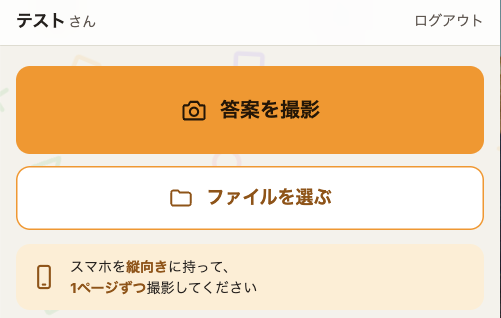
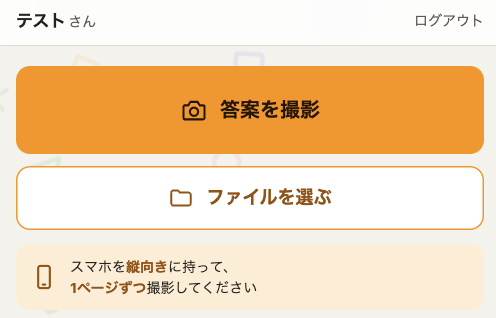
指導方針に Study Portal のお子様用の計画画面を追加
- 計画の項目に、お子様のアプリでその日のページを表示・チェックし、講師の画面に進み具合が反映される旨を追記
- お子様の画面と講師の管理画面を並べて表示（デスクトップは横並び、モバイルは縦並び）
- 写真提出画面の画像の右端に写り込んでいた背景を切り落とす
- README の構成・確定済みの値に追記

diff --git a/index.html b/index.html
@@ -25,7 +25,7 @@
 <link rel="preconnect" href="https://fonts.googleapis.com">
 <link rel="preconnect" href="https://fonts.gstatic.com" crossorigin>
 <link rel="stylesheet" href="https://fonts.googleapis.com/css2?family=Zen+Kaku+Gothic+New:wght@400;500;700&family=Zen+Old+Mincho:wght@500;600&display=swap">
-<link rel="stylesheet" href="assets/css/style.css?v=20261008-2">
+<link rel="stylesheet" href="assets/css/style.css?v=20261008-3">
 
 <script type="application/ld+json">
 {
@@ -262,11 +262,22 @@
       <p>分からない問題の解説はもちろん、次の授業までの家での過ごし方も一緒に決めます。毎週、授業の最後に次の1週間の予定を一緒に決め、次の授業でその結果を一緒に見ます。</p>
 
       <h3>毎日やるページは、アプリが自動で割り振ります</h3>
-      <p>授業で決めた目標は、講師が用意したアプリ（Study Portal）に入れます。たとえば「1週間で問題集を40ページ」と決めると、1日に何ページやればいいかを自動で計算して、毎日の予定に割り振ります。できなかった分は、次の日以降の予定に自動で組み込み直すので、遅れても予定を一から立て直す必要はありません。毎日の進み具合は講師も確認し、次の授業で一緒に見ます。</p>
-      <figure class="app-shot">
-        <img src="assets/img/study-portal-plan.png" alt="Study Portal の講師の管理画面。問題集の30〜70ページを10月14日までに終える目標に対して、1日6ページずつの予定がカレンダーに入っている" width="486" height="718" loading="lazy">
-        <figcaption>講師の管理画面（Study Portal）。目標と期限を入れると、1日にやるページがカレンダーに自動で入ります。</figcaption>
-      </figure>
+      <p>授業で決めた目標は、講師が用意したアプリ（Study Portal）に入れます。たとえば「1週間で問題集を40ページ」と決めると、1日に何ページやればいいかを自動で計算して、毎日の予定に割り振ります。できなかった分は、次の日以降の予定に自動で組み込み直すので、遅れても予定を一から立て直す必要はありません。</p>
+      <p>お子様のアプリには、その日にやるページが表示されます。終わったページをチェックしていくと、講師の画面にも進み具合が反映されるので、毎日の様子を講師も確認し、次の授業で一緒に見ます。</p>
+      <ul class="app-pair">
+        <li>
+          <figure>
+            <img src="assets/img/study-portal-plan-student.png" alt="Study Portal のお子様用の画面。今日やる英語のワーク10〜13ページのうち、10と11ページにチェックが付いている。下のカレンダーには、毎日やるページ数が表示されている" width="492" height="662" loading="lazy">
+            <figcaption><b>お子様のアプリ</b>今日やるページが表示され、終わったページをチェックしていきます。</figcaption>
+          </figure>
+        </li>
+        <li>
+          <figure>
+            <img src="assets/img/study-portal-plan.png" alt="Study Portal の講師の管理画面。問題集の30〜70ページを10月14日までに終える目標に対して、1日6ページずつの予定がカレンダーに入っている" width="486" height="718" loading="lazy">
+            <figcaption><b>講師の管理画面</b>目標と期限を入れると、1日にやるページがカレンダーに自動で入ります。</figcaption>
+          </figure>
+        </li>
+      </ul>
 
       <h3>1回60分の授業の流れ</h3>
       <ol class="lesson">
@@ -361,7 +372,7 @@
         </figcaption>
       </figure>
       <figure class="app-shot">
-        <img src="assets/img/study-portal-submit.png" alt="Study Portal のお子様用の写真提出画面。「答案を撮影」「ファイルを選ぶ」のボタンと、スマホを縦向きに持って1ページずつ撮影するよう案内が表示されている" width="501" height="318" loading="lazy">
+        <img src="assets/img/study-portal-submit.png" alt="Study Portal のお子様用の写真提出画面。「答案を撮影」「ファイルを選ぶ」のボタンと、スマホを縦向きに持って1ページずつ撮影するよう案内が表示されている" width="496" height="318" loading="lazy">
         <figcaption>お子様のアプリの写真提出画面（Study Portal）。「答案を撮影」を押して、1ページずつ撮って送ります。撮っておいた写真は「ファイルを選ぶ」から送れます。</figcaption>
       </figure>
 

diff --git a/assets/css/style.css b/assets/css/style.css
@@ -554,6 +554,36 @@ img {
   line-height: 1.8;
 }
 
+/* お子様の画面と講師の画面。モバイルは縦に並べ、デスクトップは横に並べる */
+.app-pair {
+  list-style: none;
+  margin: 0;
+  padding: 0;
+  display: grid;
+  gap: 1.5rem;
+}
+
+.app-pair figure { margin: 0; }
+
+.app-pair img {
+  width: 100%;
+  max-width: 20rem;
+  border: 1px solid var(--rule);
+}
+
+.app-pair figcaption {
+  margin-top: 0.5rem;
+  color: var(--graphite);
+  font-size: 0.875rem;
+  line-height: 1.8;
+}
+
+.app-pair figcaption b {
+  display: block;
+  color: var(--ink);
+  font-weight: 500;
+}
+
 /* ========================================
    授業のやり方の図
    ======================================== */
@@ -828,6 +858,8 @@ details > p a { color: var(--graphite); text-underline-offset: 0.2em; }
   /* 画面の写真と説明を横に並べる */
   .app-shot { display: flex; align-items: flex-end; gap: 1.5rem; }
   .app-shot img { flex: none; width: 18rem; }
+
+  .app-pair { grid-template-columns: repeat(2, minmax(0, 1fr)); }
 
   /* 授業の流れは3つ横に並べ、矢印を右向きにする */
   .lesson { grid-template-columns: repeat(3, minmax(0, 1fr)); gap: 1.5rem; }

diff --git a/legal/index.html b/legal/index.html
@@ -11,7 +11,7 @@
 <link rel="preconnect" href="https://fonts.googleapis.com">
 <link rel="preconnect" href="https://fonts.gstatic.com" crossorigin>
 <link rel="stylesheet" href="https://fonts.googleapis.com/css2?family=Zen+Kaku+Gothic+New:wght@400;500;700&family=Zen+Old+Mincho:wght@500;600&display=swap">
-<link rel="stylesheet" href="../assets/css/style.css?v=20261008-2">
+<link rel="stylesheet" href="../assets/css/style.css?v=20261008-3">
 </head>
 <body>
 

diff --git a/privacy/index.html b/privacy/index.html
@@ -11,7 +11,7 @@
 <link rel="preconnect" href="https://fonts.googleapis.com">
 <link rel="preconnect" href="https://fonts.gstatic.com" crossorigin>
 <link rel="stylesheet" href="https://fonts.googleapis.com/css2?family=Zen+Kaku+Gothic+New:wght@400;500;700&family=Zen+Old+Mincho:wght@500;600&display=swap">
-<link rel="stylesheet" href="../assets/css/style.css?v=20261008-2">
+<link rel="stylesheet" href="../assets/css/style.css?v=20261008-3">
 </head>
 <body>
 

diff --git a/README.md b/README.md
@@ -14,7 +14,8 @@
 │   └── img/
 │       ├── favicon.svg
 │       ├── kida.jpg               顔写真
-│       ├── study-portal-plan.png  Study Portal の計画画面（指導方針で使用）
+│       ├── study-portal-plan.png  Study Portal の講師の計画画面（指導方針で使用）
+│       ├── study-portal-plan-student.png Study Portal のお子様用の計画画面（指導方針で使用。テスト用アカウントの画面）
 │       ├── study-portal-submit.png Study Portal のお子様用の写真提出画面（授業のやり方で使用。テスト用アカウントの画面）
 │       └── ogp.jpg                OGP 画像 1200x630（SNS・LINE で共有したときに表示）
 ├── robots.txt
@@ -84,7 +85,7 @@ python3 -m http.server 8000
 ## 確定済みの値
 
 - 授業のやり方：書画カメラは使わない。分からない所をお子様がスマホで撮り、自作アプリ Study Portal で送る → 講師の iPad に届く → Zoom で画面共有し、写真に書き込みながら説明する。お子様は自宅の画面で見る（手元をカメラで映してもらう前提ではない）
-- 家での予定：授業で決めた目標（教材・範囲・期限）を Study Portal に入れると、1日に何ページやるかを自動で割り振る。できなかった分は次の日以降に自動で組み込み直す。講師は管理画面で毎日の進み具合を確認する。LP の画面画像は `assets/img/study-portal-plan.png`（講師の管理画面。生徒名が入る部分は切り抜いて外してある）
+- 家での予定：授業で決めた目標（教材・範囲・期限）を Study Portal に入れると、1日に何ページやるかを自動で割り振る。できなかった分は次の日以降に自動で組み込み直す。お子様のアプリにはその日にやるページが表示され、終わったページをチェックする。講師は管理画面で毎日の進み具合を確認する。LP の画面画像は `assets/img/study-portal-plan.png`（講師の管理画面。生徒名が入る部分は切り抜いて外してある）
 
 - 指導歴：16年（非常勤時代含む）。既存ポートフォリオは「11年」のままなので、こちらに揃える
 - 受付枠：10名
